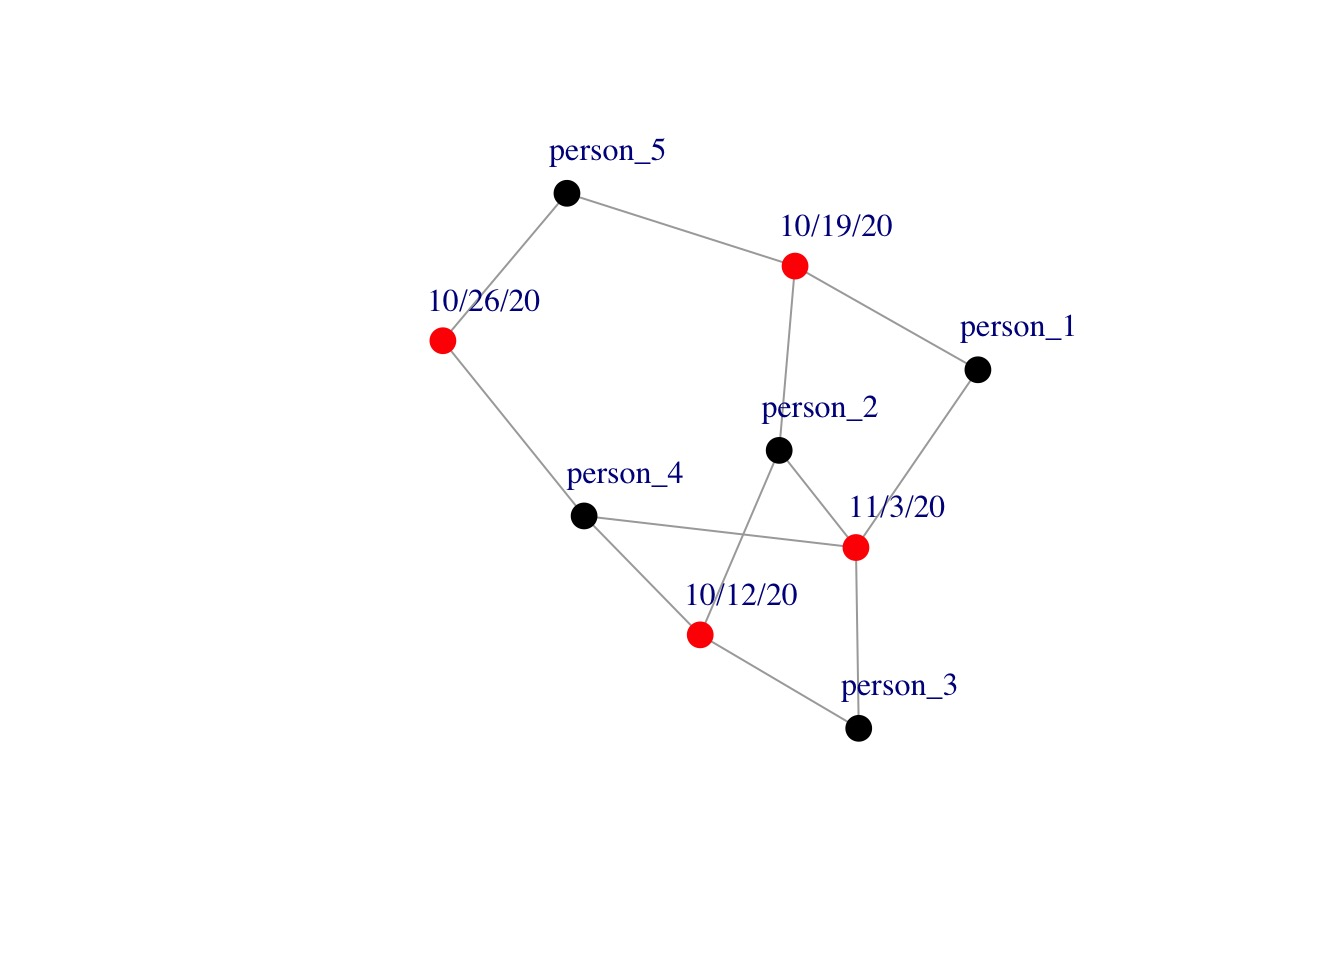
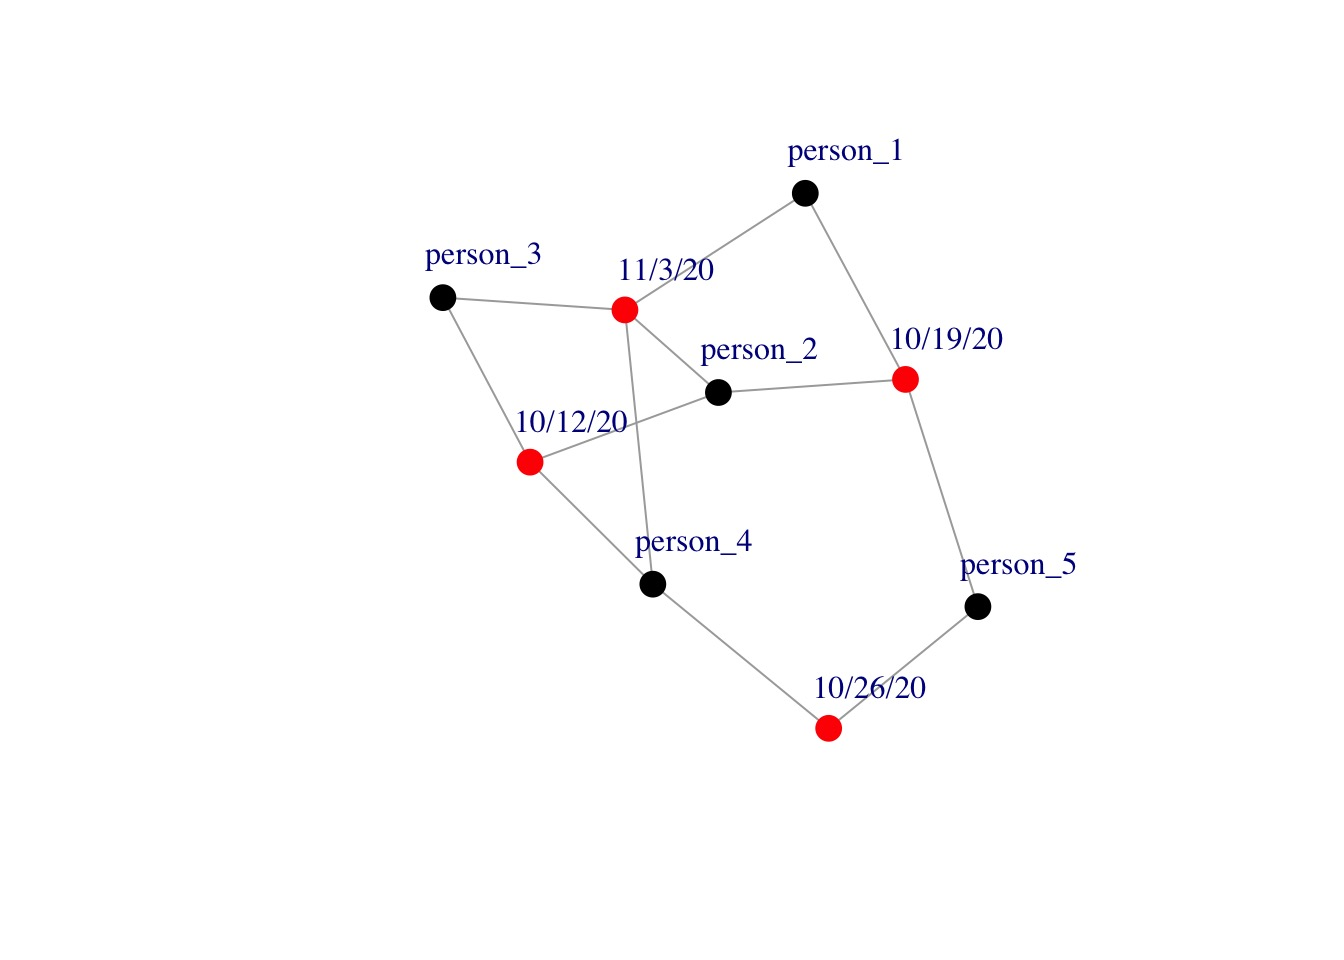
remove label.pos

diff --git a/content/posts/2021-09-02-visualising-attendence-data-as-a-dynamic-network/index.en.html b/content/posts/2021-09-02-visualising-attendence-data-as-a-dynamic-network/index.en.html
@@ -720,7 +720,6 @@ render.d3movie(netdyn, output.mode = &quot;inline&quot;,
                vertex.cex=&quot;vertex.cex&quot;,
                vertex.sides = &quot;vertex.sides&quot;,
                label = &quot;vertex.name&quot;,
-                           label.pos = 0,
                            label.cex = 1,
                displaylabels = T)</code></pre>
[1 lines of base64/hex data omitted]
@@ -6964,146 +6963,145 @@ MzsKfSkpOwo8L3NjcmlwdD48L2hlYWQ+CiAgPGJvZHk+PHNjcmlwdD4KICAgIC8v
[20 lines of base64/hex data omitted]
-MCwxKSIsInJnYmEoMCwwLDAsMSkiLCJyZ2JhKDAsMCwwLDEpIiwicmdiYSgwLDAs
[16 lines of base64/hex data omitted]
-YmEoMCwwLDAsMSkiLCJyZ2JhKDAsMCwwLDEpIiwicmdiYSgwLDAsMCwxKSIsInJn
[33 lines of base64/hex data omitted]
+MCwwLDAsMSkiLCJyZ2JhKDAsMCwwLDEpIiwicmdiYSgwLDAsMCwxKSIsInJnYmEo
[16 lines of base64/hex data omitted]
-MCwwLDEpIiwicmdiYSgwLDAsMCwxKSIsInJnYmEoMCwwLDAsMSkiLCJyZ2JhKDAs
[85 lines of base64/hex data omitted]
-CiAgPC9zY3JpcHQ+PC9ib2R5Pgo8L2h0bWw+
+MSkiLCJyZ2JhKDAsMCwwLDEpIiwicmdiYSgwLDAsMCwxKSIsInJnYmEoMCwwLDAs
[18 lines of base64/hex data omitted]
+LCJyZ2JhKDAsMCwwLDEpIiwicmdiYSgwLDAsMCwxKSIsInJnYmEoMCwwLDAsMSki
[85 lines of base64/hex data omitted]
+cmlwdD48L2JvZHk+CjwvaHRtbD4=
 
 ">
 </iframe>
